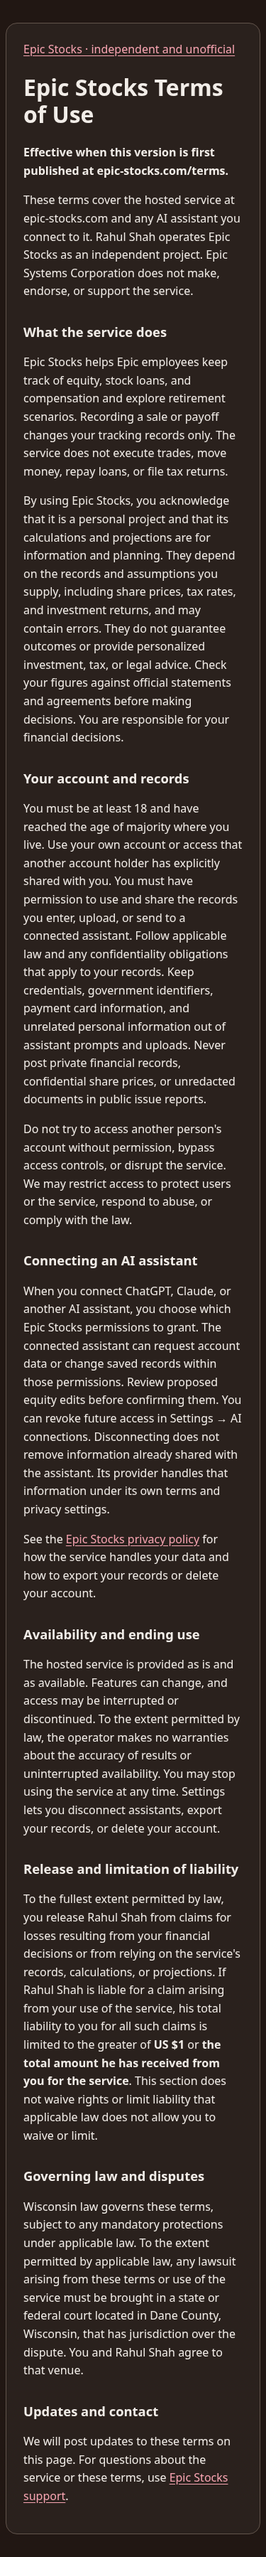
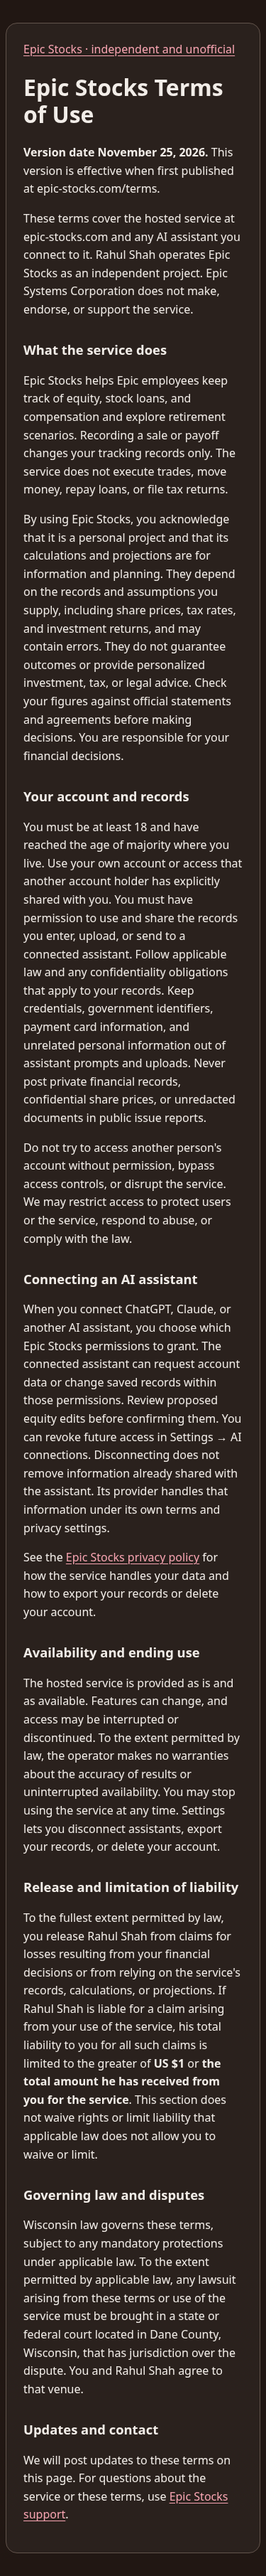
Date the terms version and verify the site footer link

Changed region(s): [[0.088, 0.0311, 0.9093, 0.9341], [0.088, 0.9652, 0.1173, 0.9964]]

diff --git a/frontend/e2e/screenshots.spec.ts b/frontend/e2e/screenshots.spec.ts
@@ -333,6 +333,7 @@ test.describe('Screenshots', () => {
 
   test('dashboard - light - mobile', async ({ page }) => {
     await authedPage(page, MOBILE, 'light')
+    await expect(page.getByRole('contentinfo').getByRole('link', { name: 'Terms of Use' })).toHaveAttribute('href', '/terms')
     await shoot(page, 'dashboard-light-mobile')
   })
 

diff --git a/backend/tests/test_public_privacy.py b/backend/tests/test_public_privacy.py
@@ -34,7 +34,8 @@ def test_public_terms_are_readable_without_sign_in_or_javascript(client):
     assert 'Dane County, Wisconsin' in response.text
     assert 'Wisconsin law governs these terms' in response.text
     assert 'at least 18' in response.text
-    assert 'Effective when this version is first published' in response.text
+    assert 'Version date November 25, 2026' in response.text
+    assert 'effective when first published' in response.text
     assert 'https://epic-stocks.com/privacy-policy' in response.text
     assert 'https://epic-stocks.com/support' in response.text
     assert '<script' not in response.text

diff --git a/submissions/README.md b/submissions/README.md
@@ -46,7 +46,9 @@ do not approve or trigger another deploy for this release.
 - [ ] Complete verified developer identity and publishing role configuration.
   Use a Global data-residency project for MCP app review.
 - [ ] Review [service terms](../TERMS.md) and verify [the public terms page](https://epic-stocks.com/terms)
-  after deployment. This version takes effect when first published there. Use the URL in the ChatGPT submission portal.
+  after deployment. The November 25, 2026 version takes effect when first published there.
+  Record the approved production deployment date as the effective date and use the URL
+  in the ChatGPT submission portal.
 - [x] Record the [live ChatGPT reviewer walkthrough](evidence/epic-stocks-chatgpt-walkthrough.mp4) (2:47, fictional account only).
 - [ ] Supply an accessible video URL or upload the MP4 in the submission portal.
 - [ ] Build/upload `chatgpt-plugin.zip`; complete domain challenge and scans.

diff --git a/TERMS.md b/TERMS.md
@@ -1,6 +1,6 @@
 # Epic Stocks Terms of Use
 
-**Effective when this version is first published at epic-stocks.com/terms.**
+**Version date November 25, 2026.** This version is effective when first published at epic-stocks.com/terms.
 
 These terms cover the hosted service at epic-stocks.com and any AI assistant you connect to it. Rahul Shah operates Epic Stocks as an independent project. Epic Systems Corporation does not make, endorse, or support the service.
 
